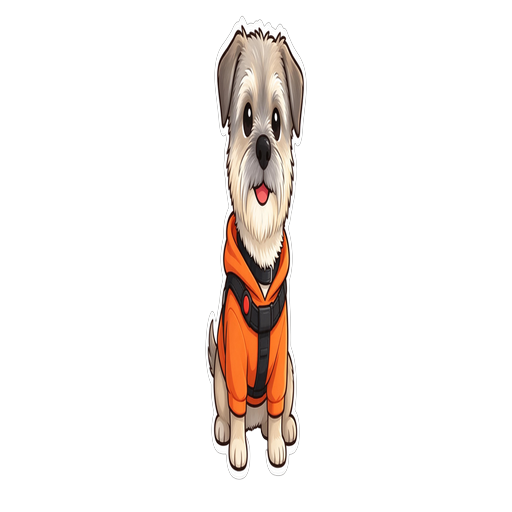
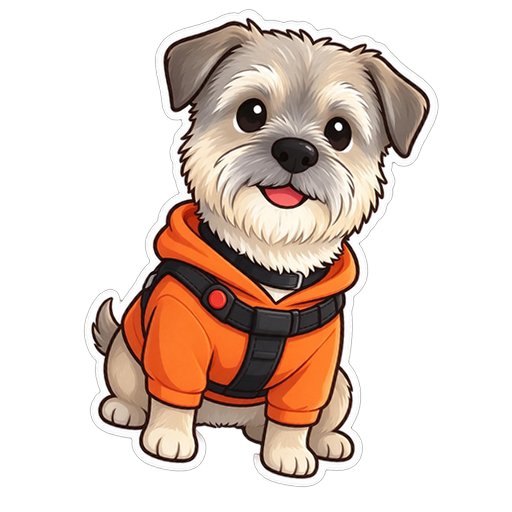
fix(pet): 有财转圈帧不再被压成竖条，改用倾斜+小跳+半程翻面

diff --git a/tools/generate_pet_motion_frames.py b/tools/generate_pet_motion_frames.py
@@ -129,18 +129,25 @@ def _sleepy_frames(base: Image.Image) -> list[Image.Image]:
 
 
 def _spin_frames(base: Image.Image) -> list[Image.Image]:
-    """翻牌式转圈：宽度按 |cos| 压缩，过 90° 后镜像表示背面。"""
+    """原地转圈：靠倾斜 + 小跳 + 半程翻面表达转身，不做极端宽度压缩。
+
+    早期版本用「翻牌」思路把宽度压到 |cos|，90°/270° 那两帧会被压成一根
+    100px 宽的竖条（正常约 338px），既不象侧身也不好看。现在最窄只到 0.86，
+    每帧都是完整形象；第 4/5 帧之间镜像切换，配合左右倾斜形成转身瞬间。
+    """
+    angles = (0.0, -9.0, -16.0, -7.0, 7.0, 16.0, 9.0, 0.0)
+    lifts = (0.0, -9.0, -18.0, -8.0, -8.0, -18.0, -9.0, 0.0)
+    widths = (1.0, 0.94, 0.86, 0.92, 0.92, 0.86, 0.94, 1.0)
     frames = []
     for i in range(8):
-        theta = 2 * math.pi * i / 8
-        width = 0.30 + 0.70 * abs(math.cos(theta))
         frames.append(
             _compose(
                 base,
-                scale_x=width,
-                scale_y=1 - 0.02 * abs(math.sin(theta)),
-                offset_y=-8 * abs(math.sin(theta)),
-                mirror=math.cos(theta) < 0,
+                scale_x=widths[i],
+                scale_y=1 - 0.02 * abs(lifts[i]) / 18,
+                offset_y=lifts[i],
+                angle=angles[i],
+                mirror=i >= 4,
             )
         )
     return frames

diff --git a/docs/petpack.md b/docs/petpack.md
@@ -149,3 +149,11 @@ services\petforge\.venv\Scripts\python.exe tools\generate_pet_motion_frames.py `
 Windows 上应用支持目录来自 `windows/runner/Runner.rc` 的 CompanyName / ProductName，
 当前是 `%APPDATA%\MomoPet\MomoPet\pets`。脚本每次运行会覆盖同名帧，但不会删除任何文件；
 批量改动前建议先备份 `petpack.json`。
+
+> **转圈为什么不用「压扁翻牌」**：早期把 `scaleX` 压到 `|cos θ|`，90° / 270° 两帧
+> 只剩约 100px 宽（正常 338px），看起来像一根棍子。现在改成
+> 「左右倾斜 ±16° + 原地小跳 + 第 4/5 帧镜像翻面」，`scaleX` 最窄 0.86，
+> 8 帧都是完整形象。这是几何表达问题，换 AI 生成侧身帧并不能自动解决：
+> 低 denoise 的 img2img 很难让 8 帧保持同一张脸和同一件卫衣。
+> 真要上 AI，更划算的是用已有的 `hop` / `walk` 精修帧重组，或按
+> [宠物动画素材生成](pet-generation.md) 走 ComfyUI 补帧。

diff --git a/docs/roadmap.md b/docs/roadmap.md
@@ -139,6 +139,8 @@ APK 已出包（JDK 17 + Android SDK 36，`flutter build apk --release` →
   `idle`(4) / `talk`(2) / `eat`(4) / `sleepy`(2) / `spin`(8) 共 20 帧，`PetMotion` 新增 `eat`；
   `PetStage` 在有 idle 呼吸帧时让位给表情 overlay，避免盖住 happy / love 等情绪。
   帧已同步到 `exports/有财` 与桌面端四个有财宠物目录。
+  转圈帧放弃「宽度压到 |cos|」的翻牌做法（90°/270° 会被压成 100px 竖条），
+  改为倾斜 + 小跳 + 半程镜像；详见 [petpack.md](petpack.md#方式四给已有的单图宠物补动作帧)。
 - **数据修复**：桌面端有财宠物包原本声明 `run` 动画却缺 `run_*.png`，已补齐；
   原 `petpack.json` 备份为同目录 `petpack.json.bak`。
 - **设置**：新增 `proactive`（默认开、旧配置缺字段自动回落），开关变化会重排空闲定时器。

diff --git a/CHANGELOG.md b/CHANGELOG.md
@@ -23,6 +23,8 @@
 - 桌面端有财宠物包声明了 `run` 动画却缺 `run_*.png`，已补齐帧文件；原 `petpack.json`
   备份为同目录 `petpack.json.bak`。
 - 修正 `showBubble` 的挤压格式；设置开关变化后重排空闲定时器，避免旧定时器沿用旧配置。
+- 有财转圈帧 `spin_2` / `spin_6` 原本被压成约 100px 的竖条；改用倾斜 + 小跳 + 半程翻面，
+  8 帧最窄 0.86 倍，形象完整（几何问题，非画质问题，无需上生成模型）。
 
 ## [0.1.0] - 2026-11-01
 
